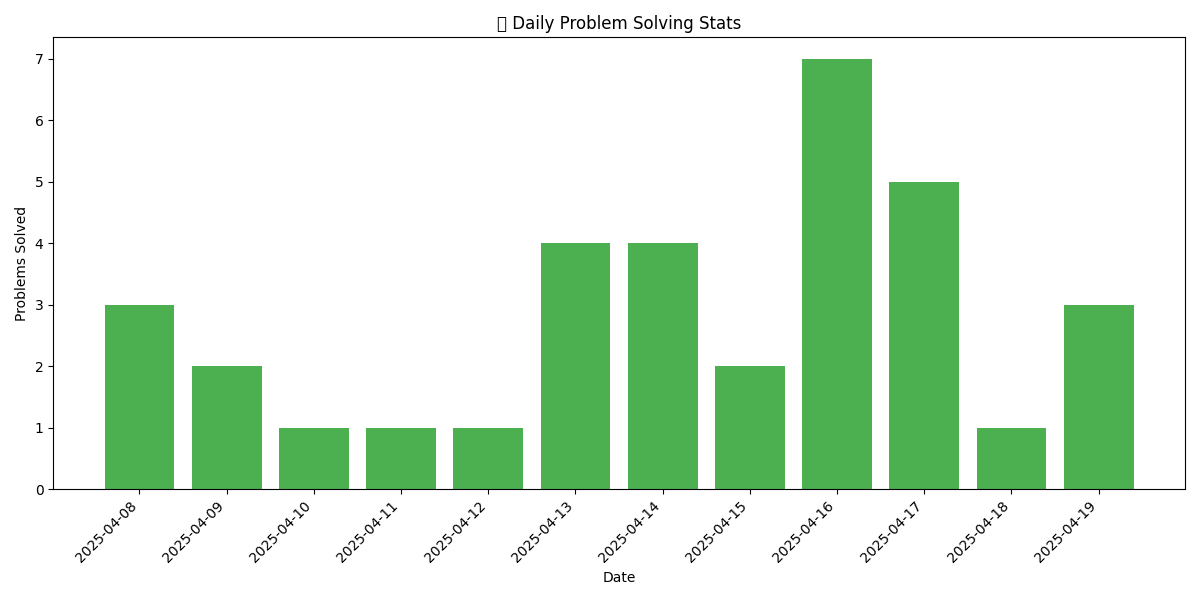
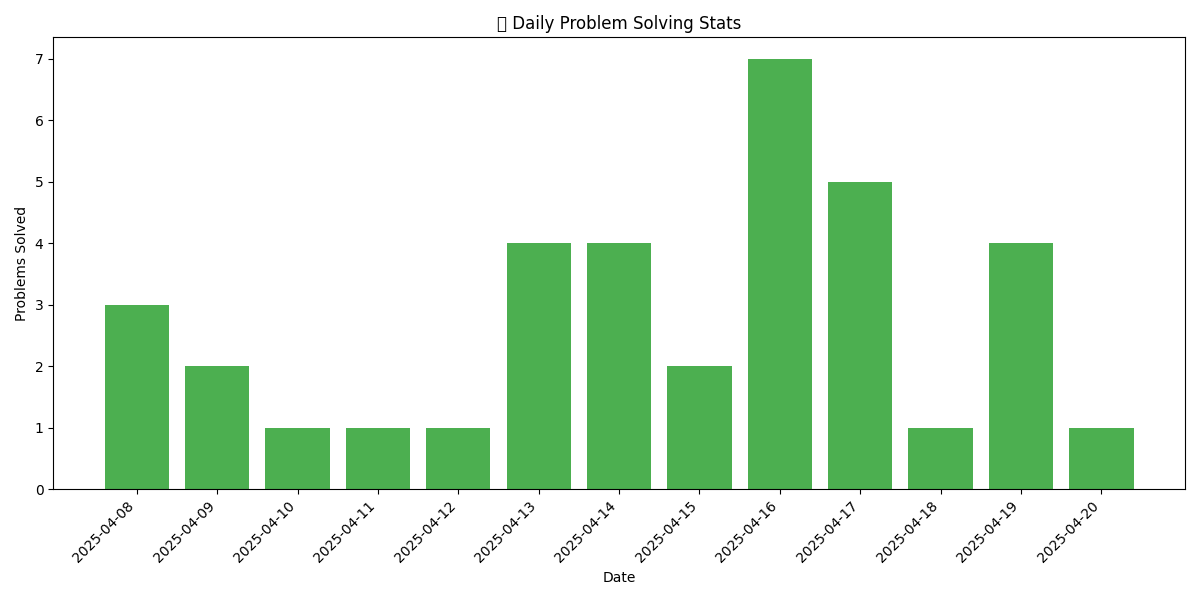
stats and heatmap generated

diff --git a/daily_problem_logger.py b/daily_problem_logger.py
@@ -136,7 +136,23 @@ with open("stats.md", "w", encoding="utf-8") as f:
         f.write("None yet.")
     f.write("\n")
 
-# 9. Update README.md with stats and full problem table
+# 9. Update `daily_stats.csv` with today's problem count
+def update_daily_stats(date_str: str, problem_count: int):
+    stats_csv = "daily_stats.csv"
+
+    # Check if the file exists, and if not, create it with the header
+    if not os.path.exists(stats_csv):
+        with open(stats_csv, "w", encoding="utf-8") as f:
+            f.write("date,problems_solved\n")
+
+    # Write or append today's problem count to the CSV
+    with open(stats_csv, "a", encoding="utf-8") as f:
+        f.write(f"{date_str},{problem_count}\n")
+
+# Update with today's problem solved count (always 1 in this case)
+update_daily_stats(today, 1)
+
+# 10. Update README.md with stats and full problem table
 readme_path = "README.md"
 
 def update_readme(file_path, tracker_path):
@@ -178,9 +194,9 @@ def update_readme(file_path, tracker_path):
 
 update_readme(file_path, tracker_path)
 
-# 10. Git Commit + Push
+# 11. Git Commit + Push
 try:
-    subprocess.run(["git", "add", file_path, tracker_path, "stats.md", readme_path], check=True)
+    subprocess.run(["git", "add", file_path, tracker_path, "stats.md", "daily_stats.csv", readme_path], check=True)
     commit_message = f"🧠 Add: {problem_name} [{date_input}]"
     subprocess.run(["git", "commit", "-m", commit_message], check=True)
     subprocess.run(["git", "push"], check=True)

diff --git a/generate_calendar_heatmap.py b/generate_calendar_heatmap.py
@@ -1,0 +1,13 @@
+import pandas as pd
+import calplot
+import matplotlib.pyplot as plt
+
+# Load your CSV
+df = pd.read_csv('daily_stats.csv', parse_dates=['Date'])
+df = df.set_index('Date')['Problems_Solved']
+
+# Plot the calendar heatmap
+calplot.calplot(df, cmap='YlGn', colorbar=True, suptitle='🗓 Coding Problem Calendar Heatmap')
+
+# Save the heatmap
+plt.savefig('calendar_heatmap.png', bbox_inches='tight')

diff --git a/README.md b/README.md
@@ -84,36 +84,18 @@ The goal is to **build consistent problem-solving habits** and **enhance my skil
 
 
 ## 📈 Visuals
-
-Here’s a progress bar showing problems solved this week:
-
-![Progress](https://progress-bar.dev/27/?scale=100&title=Problems+Solved+This+Week&width=400&color=3e6fdd&suffix=%)
-
 ---
 
 ### 📊 Progress Graph
 
-Here's a bar chart of your actual daily problem-solving stats:
+Here's a bar chart of our actual daily problem-solving stats:
 
 ![Progress Chart](daily_stats_chart.png)
 
 ---
-
-### 📅 GitHub Contributions
-
-You can track your GitHub contributions as a way to visualize your daily activity:
-
-![GitHub Contributions](https://github.com/DaRealFreak/Contribution-Calendar-Heatmap/raw/master/images/heatmap.png)
-
----
-
-
 ## 📅 Calendar Heatmap
 
-Here's a simple way to track your **streaks** over time. You can generate one of these with a service like [GitHub Contributions Graph](https://github.com/DaRealFreak/Contribution-Calendar-Heatmap).
-
-![Heatmap](https://github.com/DaRealFreak/Contribution-Calendar-Heatmap/raw/master/images/heatmap.png)
-
+![Heatmap](calendar_heatmap.png)
 ---
 
 ## 🚀 Features
